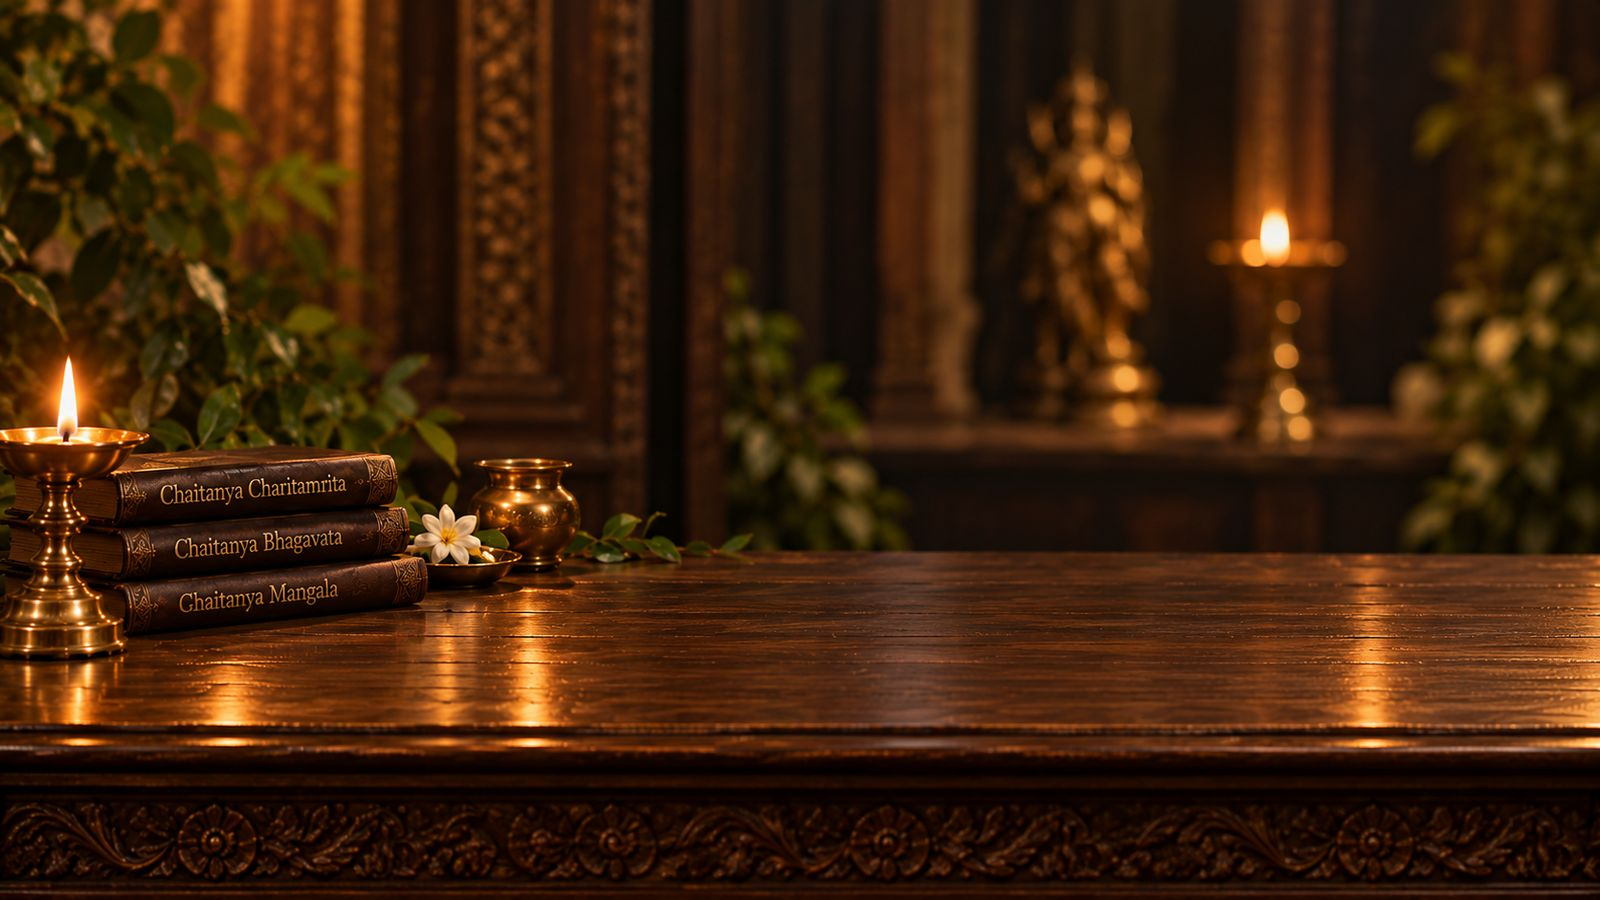
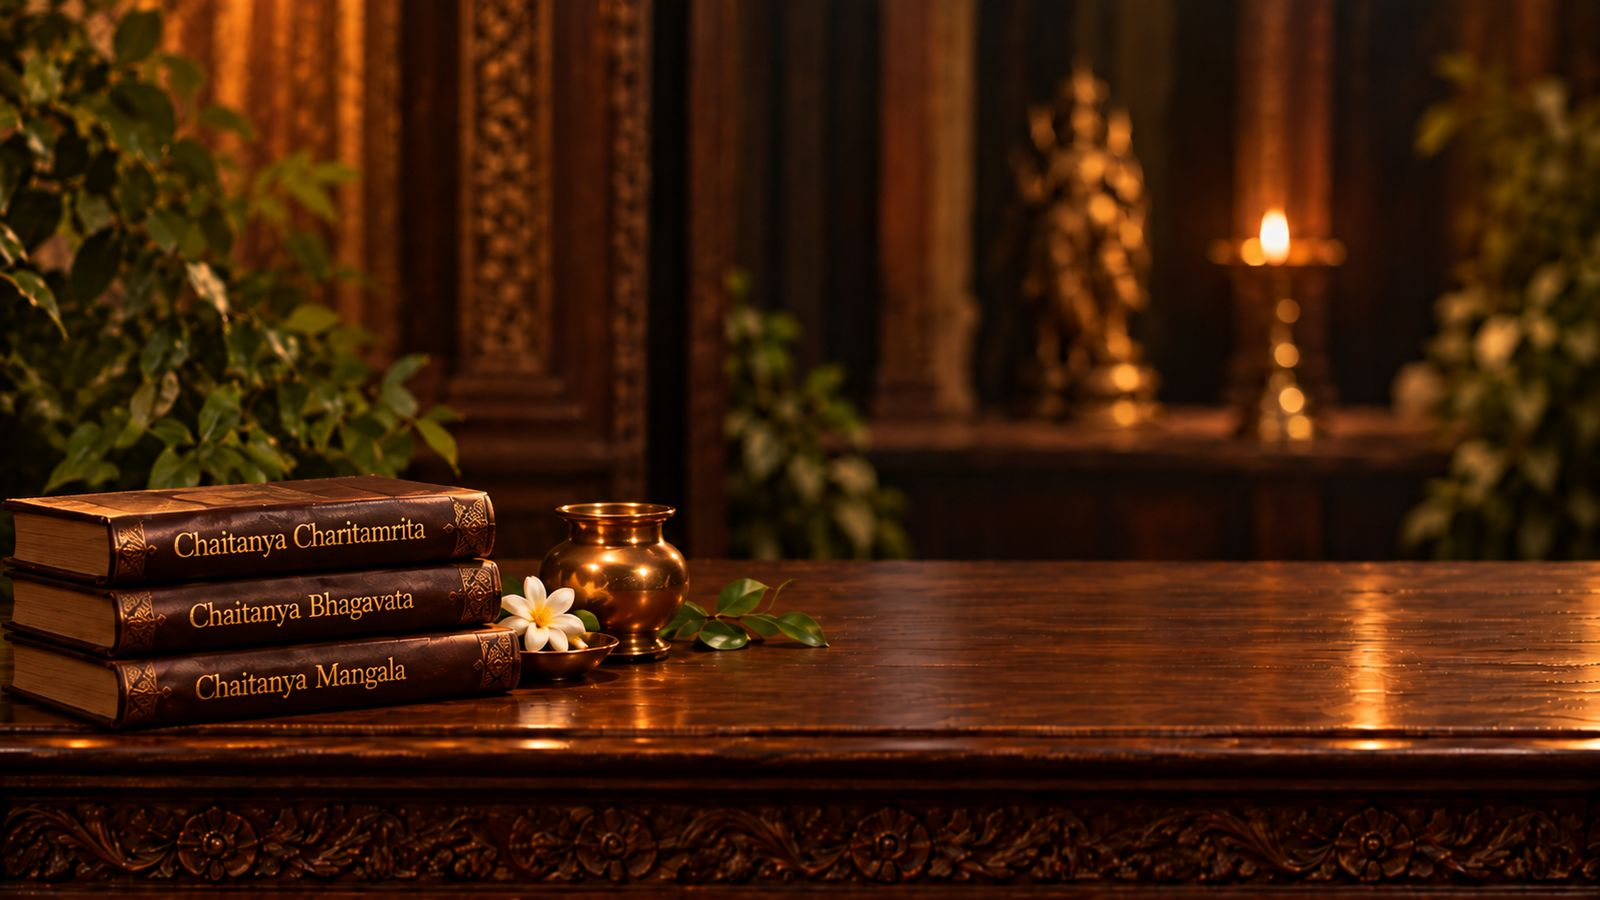
site: стол с книгами без свечи (новая картинка пользователя), крупнее; свет ровный, без мерцания
Claude-Session: https://claude.ai/code/session_01H8Gb7aUwSNerpTZqfKca1U

diff --git a/site/style.css b/site/style.css
@@ -19,9 +19,9 @@
   --rh: clamp(380px, 74vh, 740px);    /* высота ленты (картинка; бумага — 9–89% её высоты) */
   --ribbon-top: calc(var(--top) - var(--rh) * .06);
   --paper-bottom: calc(var(--ribbon-top) + var(--rh) * .89);
-  /* комната: не шире экрана и такого размера, чтобы под лентой целиком помещались пламя свечи
-     (40% высоты картинки) … низ книг (70%) */
-  --room-h: min(calc(100vw * 941 / 1672), calc((100vh - var(--paper-bottom) - 14px) / .30));
+  /* комната (стол с книгами): верх книг — 53% высоты картинки, низ — 81%, край стола — 83%.
+     Верхний край книг чуть заходит под ленту; под ней целиком видны корешки и край стола. */
+  --room-h: min(calc(100vw * 941 / 1672), calc((100vh - var(--paper-bottom)) / .29));
   --room-w: calc(var(--room-h) * 1672 / 941);
   /* пейзаж: от верхушек куполов (17% высоты картинки) до воды Ганги (85%) — в полосе над лентой */
   --land-h: calc((var(--top) + var(--rh) * .03) / .68);
@@ -44,8 +44,7 @@ button { font: inherit; color: inherit; cursor: pointer; }
 /* ——— комната и пейзаж ——— */
 .room {
   position: fixed; left: 0; z-index: 0; pointer-events: none;
-  /* пламя свечи — чуть ниже края бумаги ленты, книги и стол под ним */
-  top: calc(var(--paper-bottom) + 14px - var(--room-h) * .404);
+  top: calc(var(--paper-bottom) - var(--room-h) * .545);
   width: var(--room-w); height: var(--room-h);
   background: url("assets/img/bg-desk.jpg") center top / 100% 100% no-repeat;
   /* сверху и справа картинка растворяется в темноте комнаты */
@@ -85,22 +84,13 @@ button { font: inherit; color: inherit; cursor: pointer; }
 /* ——— свет ——— */
 .light { position: fixed; inset: 0; pointer-events: none; z-index: 0; }
 .light__candle, .light__sun { position: absolute; border-radius: 50%; }
-.light__candle { /* над пламенем свечи на картинке комнаты (x ≈ 4%) */
-  left: calc(4.2vw - 35vmax); top: calc(var(--paper-bottom) + 14px - 35vmax); width: 70vmax; height: 70vmax;
-  background: radial-gradient(circle, rgba(var(--flame), .38), rgba(var(--flame), .12) 38%, transparent 66%);
-  animation: flicker 5.5s infinite;
+.light__candle { /* ровный тёплый свет над книгами, без мерцания */
+  left: calc(14vw - 35vmax); top: calc(var(--paper-bottom) + 4vh - 35vmax); width: 70vmax; height: 70vmax;
+  background: radial-gradient(circle, rgba(var(--flame), .22), rgba(var(--flame), .07) 40%, transparent 66%);
 }
 .light__sun {
   right: -20vmax; top: -30vmax; width: 70vmax; height: 60vmax;
   background: radial-gradient(circle, rgba(255, 196, 120, .30), transparent 62%);
-}
-@keyframes flicker {
-  0%, 100% { opacity: .9; transform: scale(1); }
-  18% { opacity: 1; transform: scale(1.015); }
-  31% { opacity: .82; }
-  47% { opacity: .97; transform: scale(.995); }
-  63% { opacity: .86; }
-  80% { opacity: 1; transform: scale(1.01); }
 }
 
 /* ——— шапка ——— */
@@ -302,7 +292,7 @@ main { position: relative; z-index: 1; flex: 1; display: flex; flex-direction: c
 .reader__glow {
   position: absolute; inset: -20% -30% -20% -60%;
   background: radial-gradient(closest-side, rgba(var(--flame), .36), rgba(var(--flame), .1) 55%, transparent);
-  animation: flicker 6.5s infinite; pointer-events: none;
+  pointer-events: none;
 }
 .scroll {
   position: relative; height: 100%;
@@ -420,7 +410,6 @@ main { position: relative; z-index: 1; flex: 1; display: flex; flex-direction: c
 @media (min-width: 701px) { .reader { top: 64px; } }
 
 @media (prefers-reduced-motion: reduce) {
-  .light__candle, .reader__glow { animation: none; }
   .scroll { animation: none; }
   .card { transition: none; }
 }

diff --git a/site/tools/prep_assets.py b/site/tools/prep_assets.py
@@ -79,7 +79,7 @@ vb = vb.resize((W, round(vb.height * W / 971)), Image.LANCZOS)
 save(cutout(vb.crop((0, vb.height - 260, W, vb.height))), 'vscroll-bottom.webp', quality=82)
 
 # Фоны
-desk = load('bg-desk-candle.png')
+desk = load('bg-desk-books.png')  # без свечи (2026-10-10); прежний вариант — bg-desk-candle.png
 save(desk.resize((1600, round(desk.height * 1600 / desk.width)), Image.LANCZOS), 'bg-desk.jpg', quality=80)
 sky = load('header-navadvipa-sunset.png')
 save(sky.resize((1800, round(sky.height * 1800 / sky.width)), Image.LANCZOS), 'header-sunset.jpg', quality=80)
